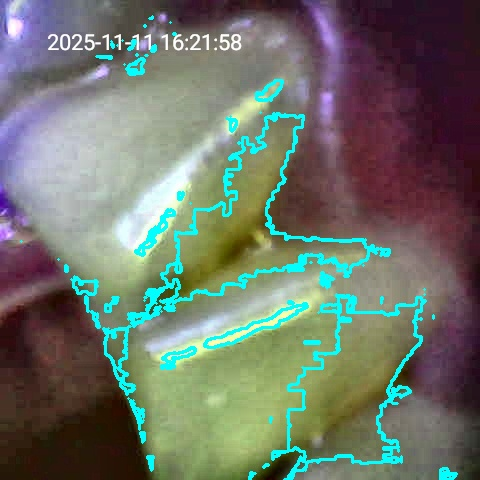
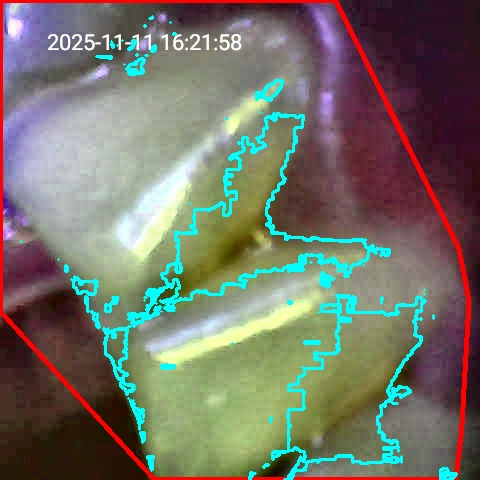
Perimetro dental fallido

diff --git a/templates/result.html b/templates/result.html
@@ -11,32 +11,51 @@
   <h1 class="text-center mb-4">Comparación de Imagen</h1>
 
   <div class="row">
-    
     <div class="col-md-6 text-center">
       <h3>Original</h3>
       <img src="{{ url_for('static', filename='uploads/' + original_filename) }}" class="img-fluid rounded" alt="Original">
     </div>
-    
     <div class="col-md-6 text-center">
       <h3>Mejorada</h3>
       <img src="{{ url_for('static', filename='uploads/' + enhanced_filename) }}" class="img-fluid rounded" alt="Mejorada">
     </div>
-
   </div> 
- <div class="row mt-4">
-    <div class="col text-center">
-        <h2>Resultado Cuantitativo</h2>
-        <h4 class="text-info">Área de Placa Detectada: <strong>{{ "%.2f"|format(plaque_area) }}</strong> píxeles</h4>
-        <p class="text-muted">(Valor objetivo para análisis)</p>
+
+  <div class="row mt-4 pt-4 border-top border-secondary">
+    <div class="col-12 text-center">
+        <h2>Resultados Cuantitativos</h2>
     </div>
   </div>
-  <div class="text-center mt-4 d-flex justify-content-center gap-2">
+
+  <div class="row mt-3">
+    <div class="col-md-6">
+        <div class="card bg-secondary text-white p-3 h-100">
+            <h5 class="text-info">Datos de Segmentación (Píxeles)</h5>
+            <hr>
+            <p class="mb-1"><strong>Área de Placa Detectada:</strong> {{ "%.0f"|format(plaque_area) }} px</p>
+            <p class="mb-0"><strong>Área de Diente Detectada:</strong> {{ "%.0f"|format(tooth_area) }} px</p>
+        </div>
+    </div>
     
+    <div class="col-md-6">
+        <div class="card bg-secondary text-white p-3 h-100">
+            <h5 class="text-warning">Índice Quigley-Hein (Turesky)</h5>
+            <hr>
+            <p class="mb-1"><strong>Porcentaje de Placa:</strong> {{ "%.2f"|format(plaque_percentage) }} %</p>
+            <p class="mb-0"><strong>Grado Asignado (0-5):</strong> 
+                <strong class="display-6 text-warning">{{ turesky_grade }}</strong>
+            </p>
+        </div>
+    </div>
+  </div>
+  <div class="text-center mt-4 pt-4 border-top border-secondary">
     {% if prev_filename %}
       <a href="{{ url_for('enhance_file_route', filename=prev_filename) }}" class="btn btn-secondary">&lt; Anterior</a>
     {% endif %}
 
     <a href="{{ url_for('index') }}" class="btn btn-light">Volver a la Galería</a>
+
+    <a href="{{ url_for('download_file', filename=enhanced_filename) }}" class="btn btn-primary fw-bold">Descargar Imagen</a>
 
     {% if next_filename %}
       <a href="{{ url_for('enhance_file_route', filename=next_filename) }}" class="btn btn-secondary">Siguiente &gt;</a>

diff --git a/titulacion.py b/titulacion.py
@@ -1,10 +1,10 @@
 import os
 import time
-from flask import Flask, render_template, request, redirect, url_for, abort, flash, jsonify
+from flask import Flask, render_template, request, redirect, url_for, abort, flash, jsonify, send_from_directory
 from werkzeug.utils import secure_filename
 import cv2
 import numpy as np
-import shutil # NUEVO: Importamos la librería para copiar archivos
+import shutil 
 
 app = Flask(__name__)
 
@@ -20,6 +20,24 @@ os.makedirs(LOCAL_SOURCE_FOLDER, exist_ok=True) # NUEVO: Nos aseguramos que la c
 DELETED_DURING_SESSION = set()
 
 # --- FUNCIONES AUXILIARES ---
+def get_turesky_grade(plaque_area, tooth_area):
+    if tooth_area == 0:
+        return 0, 0.0
+    percentage = (plaque_area / tooth_area) * 100
+    grade = 0
+    if percentage == 0:
+        grade = 0
+    elif percentage < 10:
+        grade = 1
+    elif percentage < 20:
+        grade = 2
+    elif percentage < 33.3:
+        grade = 3
+    elif percentage < 66.6:
+        grade = 4
+    else:
+        grade = 5
+    return grade, percentage
 def allowed_file(filename):
     """Verifica si la extensión de un archivo es válida."""
     return '.' in filename and filename.rsplit('.', 1)[1].lower() in ALLOWED_EXTENSIONS
@@ -66,28 +84,111 @@ def sync_local_folder():
     return new_files_count
 
 def enhance_image(input_path, output_path):
-    """Aplica el filtro de mejora a una imagen y la guarda."""
-    # (El resto de esta función no cambia)
+    """
+    Versión 8.0: Detección por MÁSCARA DE COLOR ESPECÍFICA (Diente)
+    y selección del objeto CENTRAL.
+    """
     imagen = cv2.imread(input_path)
-    if imagen is None: return False, 0
+    if imagen is None: return False, 0, 0
+
+    # --- 1. MEJORA DE ILUMINACIÓN ---
     imagen_lab = cv2.cvtColor(imagen, cv2.COLOR_BGR2LAB)
     l_channel, a_channel, b_channel = cv2.split(imagen_lab)
     clahe = cv2.createCLAHE(clipLimit=2.0, tileGridSize=(8, 8))
     l_channel_clahe = clahe.apply(l_channel)
     imagen_lab_mejorada = cv2.merge((l_channel_clahe, a_channel, b_channel))
     imagen_final = cv2.cvtColor(imagen_lab_mejorada, cv2.COLOR_LAB2BGR)
-    hsv = cv2.cvtColor(imagen_final,cv2.COLOR_BGR2HSV)
-    lower_color = np.array([20,50,80])
-    upper_color = np.array([35,255,220])
-    mask = cv2.inRange(hsv, lower_color , upper_color)
-    contours, _ = cv2.findContours(mask, cv2.RETR_EXTERNAL, cv2.CHAIN_APPROX_SIMPLE)
+
+    # ==========================================
+    # --- 2. DETECCIÓN DEL DIENTE (NUEVA ESTRATEGIA) ---
+    # ==========================================
+    
+    # Convertir a HSV
+    hsv = cv2.cvtColor(imagen_final, cv2.COLOR_BGR2HSV)
+    
+    # ESTRATEGIA: El diente es Brillante (V alto) y poco Saturado (S bajo)
+    # La encía es oscura (V bajo) y muy saturada (S alto)
+    
+    # Rango para "Materia Dental" (Blanco/Amarillento brillante)
+    # H: 0-179 (Cualquier tono, aunque suele ser amarillo/naranja)
+    # S: 0-100 (Saturación BAJA - esto elimina la encía roja intensa)
+    # V: 60-255 (Brillo MEDIO/ALTO - esto elimina el fondo oscuro)
+    lower_tooth = np.array([0, 0, 80])     
+    upper_tooth = np.array([180, 120, 255]) 
+    
+    # Crear máscara
+    mask_tooth = cv2.inRange(hsv, lower_tooth, upper_tooth)
+    
+    # Limpieza fuerte para eliminar puntos sueltos
+    kernel = np.ones((7,7), np.uint8)
+    mask_tooth = cv2.morphologyEx(mask_tooth, cv2.MORPH_OPEN, kernel, iterations=2)
+    mask_tooth = cv2.morphologyEx(mask_tooth, cv2.MORPH_CLOSE, kernel, iterations=2)
+
+    # Encontrar contornos
+    contours_tooth, _ = cv2.findContours(mask_tooth, cv2.RETR_EXTERNAL, cv2.CHAIN_APPROX_SIMPLE)
+    
+    total_tooth_area = 0
+    
+    # --- SELECCIÓN DEL DIENTE CENTRAL ---
+    if contours_tooth:
+        # Centro de la imagen
+        height, width = imagen.shape[:2]
+        center_x, center_y = width // 2, height // 2
+        
+        best_contour = None
+        min_dist = float('inf')
+        
+        # Filtramos contornos muy pequeños (ruido)
+        min_area = 2000 
+        
+        for c in contours_tooth:
+            area = cv2.contourArea(c)
+            if area > min_area:
+                # Calcular centro del contorno
+                M = cv2.moments(c)
+                if M["m00"] != 0:
+                    cX = int(M["m10"] / M["m00"])
+                    cY = int(M["m01"] / M["m00"])
+                    
+                    # Distancia al centro de la foto
+                    dist = np.sqrt((cX - center_x)**2 + (cY - center_y)**2)
+                    
+                    if dist < min_dist:
+                        min_dist = dist
+                        best_contour = c
+        
+        # Si encontramos un diente central...
+        if best_contour is not None:
+            total_tooth_area = cv2.contourArea(best_contour)
+            
+            # Usamos Convex Hull SOLO en este diente para que quede suave y "redondito"
+            hull = cv2.convexHull(best_contour)
+            
+            # Dibujamos en ROJO
+            cv2.drawContours(imagen_final, [hull], -1, (0, 0, 255), 3)
+
+    print(f"Área de diente detectada: {total_tooth_area} píxeles")
+
+    # ==========================================
+    # --- 3. DETECCIÓN DE PLACA (HSV) ---
+    # ==========================================
+    # Rango para la Placa (Fluorescencia)
+    lower_plaque = np.array([20, 50, 80])
+    upper_plaque = np.array([35, 255, 220]) 
+    mask_plaque = cv2.inRange(hsv, lower_plaque, upper_plaque)
+    
+    contours_plaque, _ = cv2.findContours(mask_plaque, cv2.RETR_EXTERNAL, cv2.CHAIN_APPROX_SIMPLE)
+    
     total_plaque_area = 0
-    for c in contours:
+    for c in contours_plaque:
         total_plaque_area += cv2.contourArea(c)
-    print(f"Área de la placa detectada: {total_plaque_area} pixeles")
-    cv2.drawContours(imagen_final, contours, -1,(255,255,2), 2)
+        
+    # Dibujamos contornos de placa en CIAN
+    cv2.drawContours(imagen_final, contours_plaque, -1, (255, 255, 0), 2)
+
     cv2.imwrite(output_path, imagen_final)
-    return True, total_plaque_area
+    
+    return True, total_plaque_area, total_tooth_area
 
 # --- RUTAS DE LA APLICACIÓN ---
 
@@ -125,6 +226,10 @@ def upload_file():
                 flash(f"El archivo '{secure_filename(file.filename)}' tiene una extensión no permitida.", 'danger')
     return redirect(url_for('index'))
 
+@app.route('/download/<filename>')
+def download_file(filename):
+    return send_from_directory(app.config['UPLOAD_FOLDER'], filename, as_attachment=True)
+
 @app.route('/enhance/<path:filename>')
 def enhance_file_route(filename):
     enhanced_filename = "enhanced_" + filename
@@ -144,9 +249,10 @@ def enhance_file_route(filename):
         abort(404)
     if not os.path.exists(input_path):
         abort(404)
-    success,plaque_area = enhance_image(input_path, output_path)
+    success,plaque_area, tooth_area = enhance_image(input_path, output_path)
     if success:
-        return render_template('result.html', original_filename=filename, enhanced_filename=enhanced_filename, prev_filename=prev_filename, next_filename=next_filename, plaque_area=plaque_area)
+        turesky_grade, plaque_percentage = get_turesky_grade(plaque_area, tooth_area)
+        return render_template('result.html', original_filename=filename, enhanced_filename=enhanced_filename, prev_filename=prev_filename, next_filename=next_filename,tooth_area=tooth_area, plaque_area=plaque_area, plaque_percentage=plaque_percentage, turesky_grade=turesky_grade)
     else:
         flash('No se pudo procesar la imagen.', 'danger')
         return redirect(url_for('index'))
@@ -240,4 +346,6 @@ def add_header(response):
 
 
 if __name__ == '__main__':
-    app.run(debug=True)
+    app.run(debug=True, host='0.0.0.0')
+
+   
